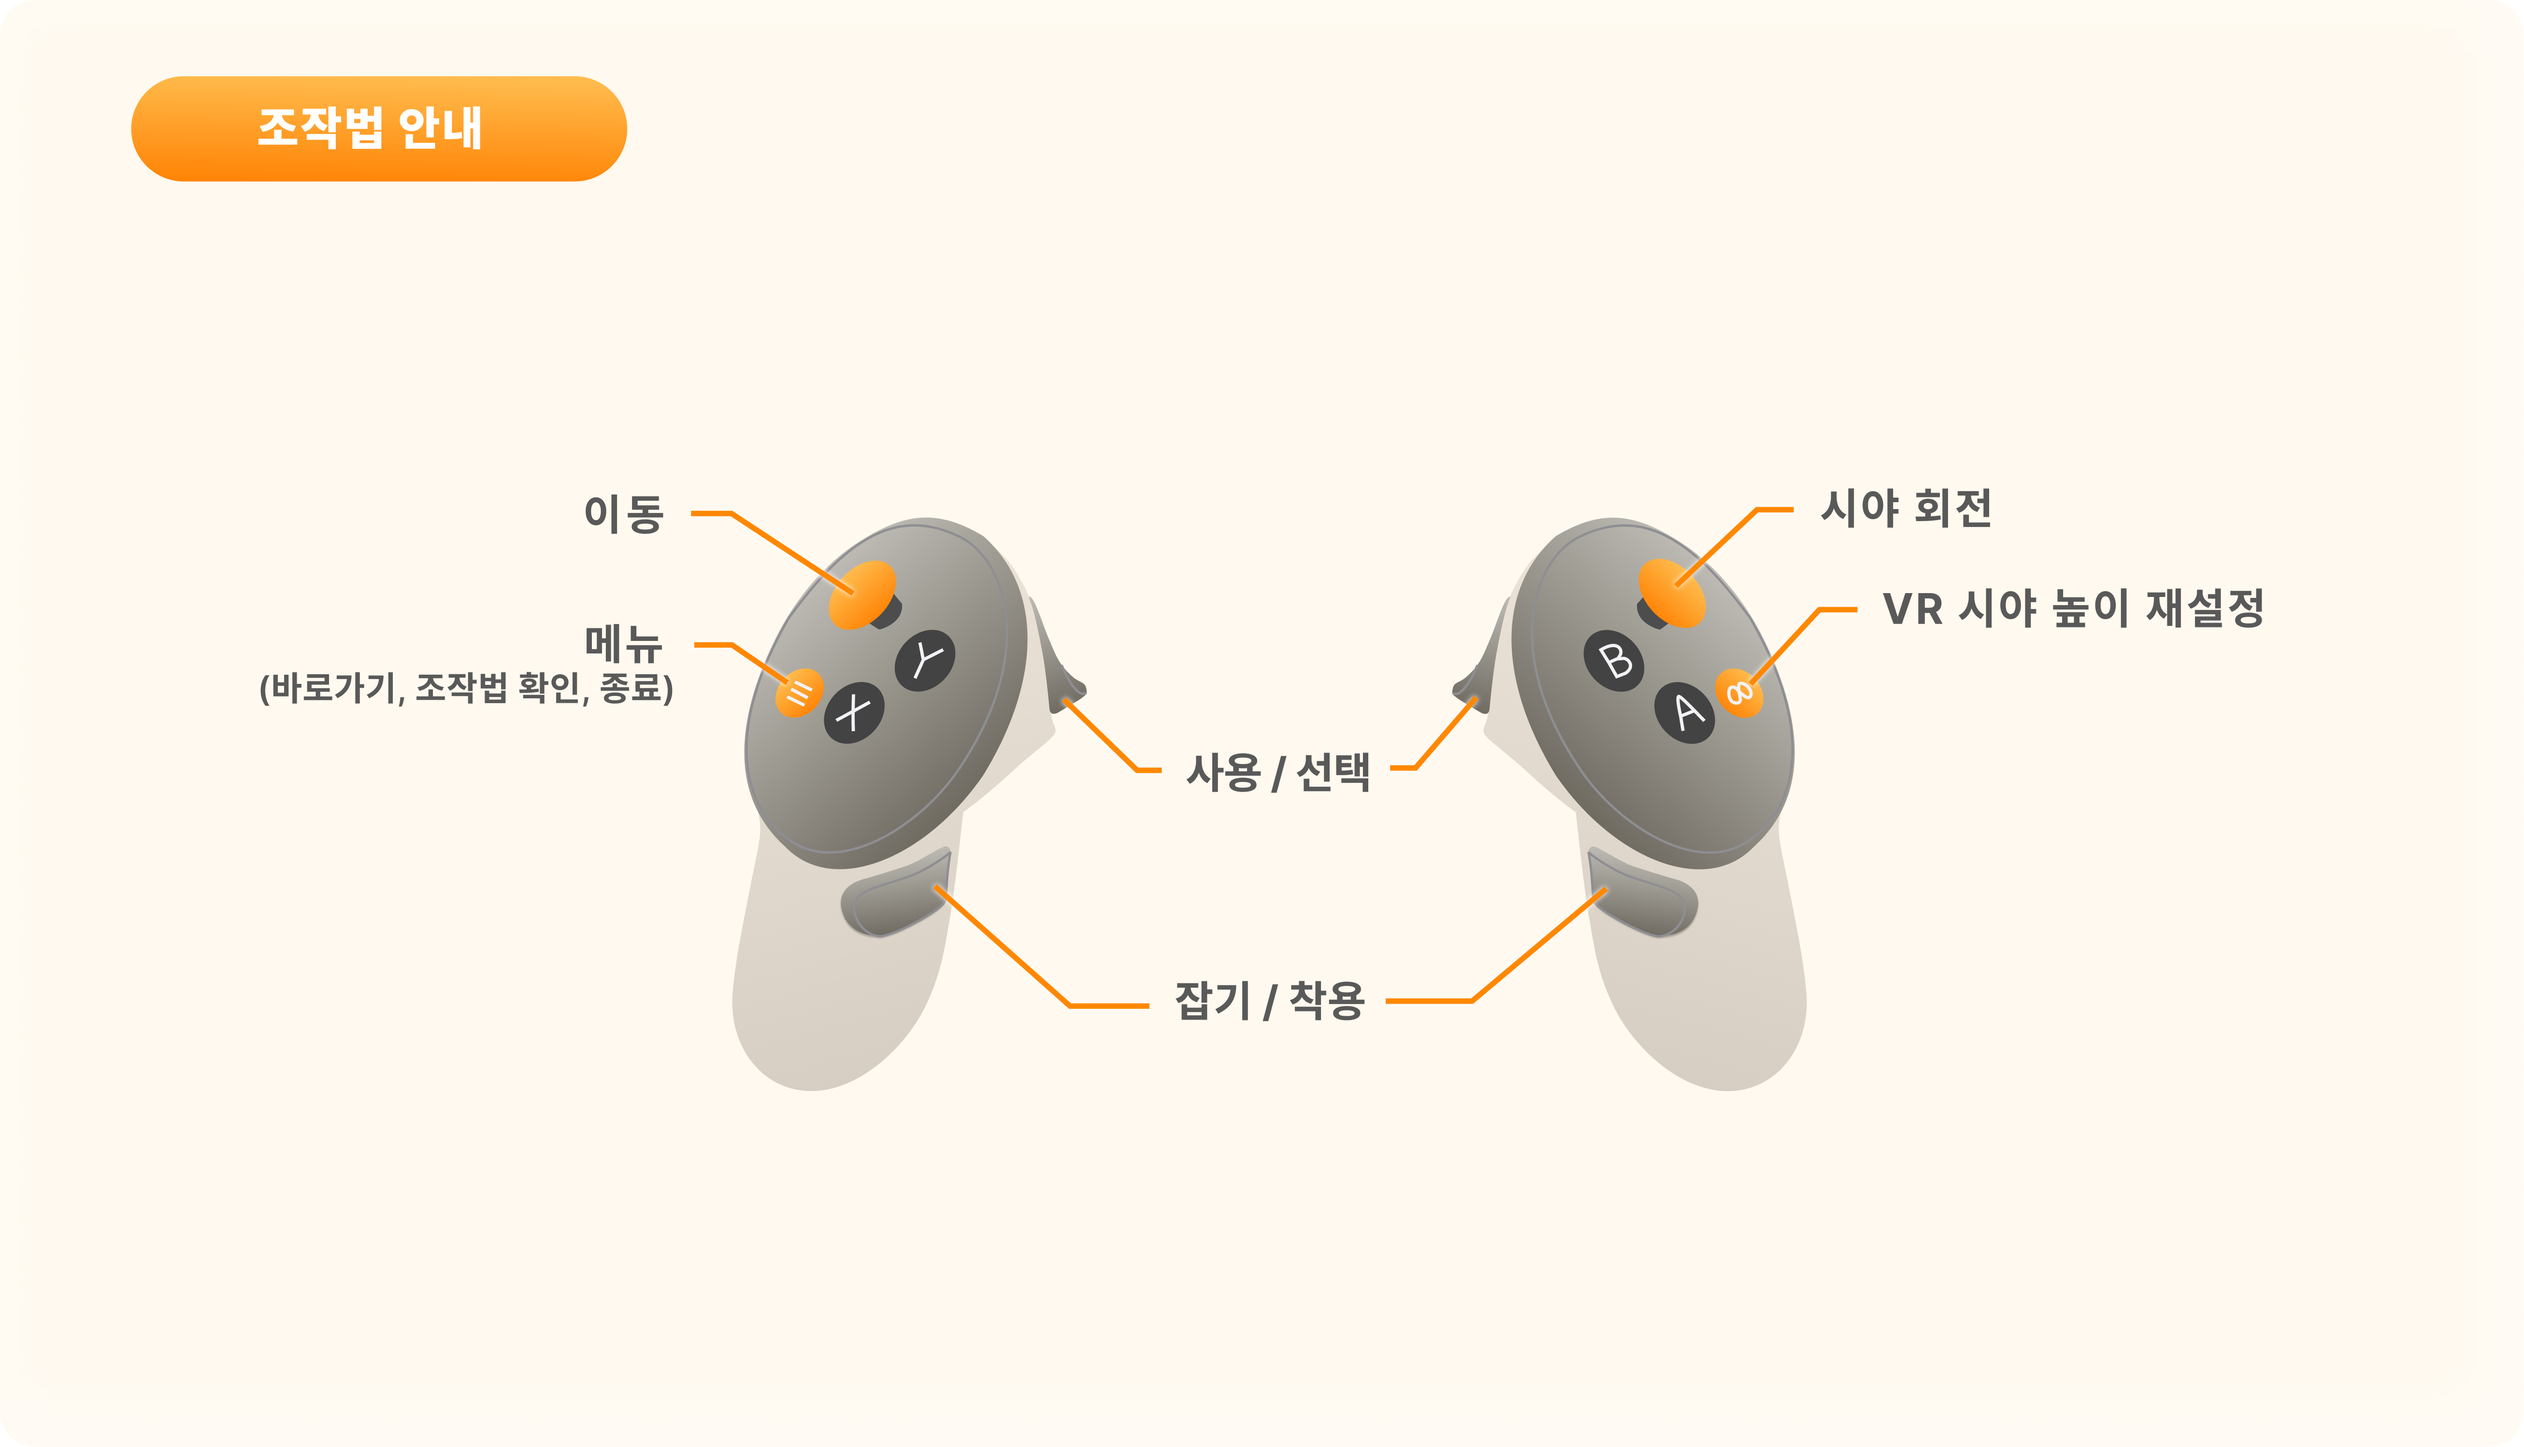
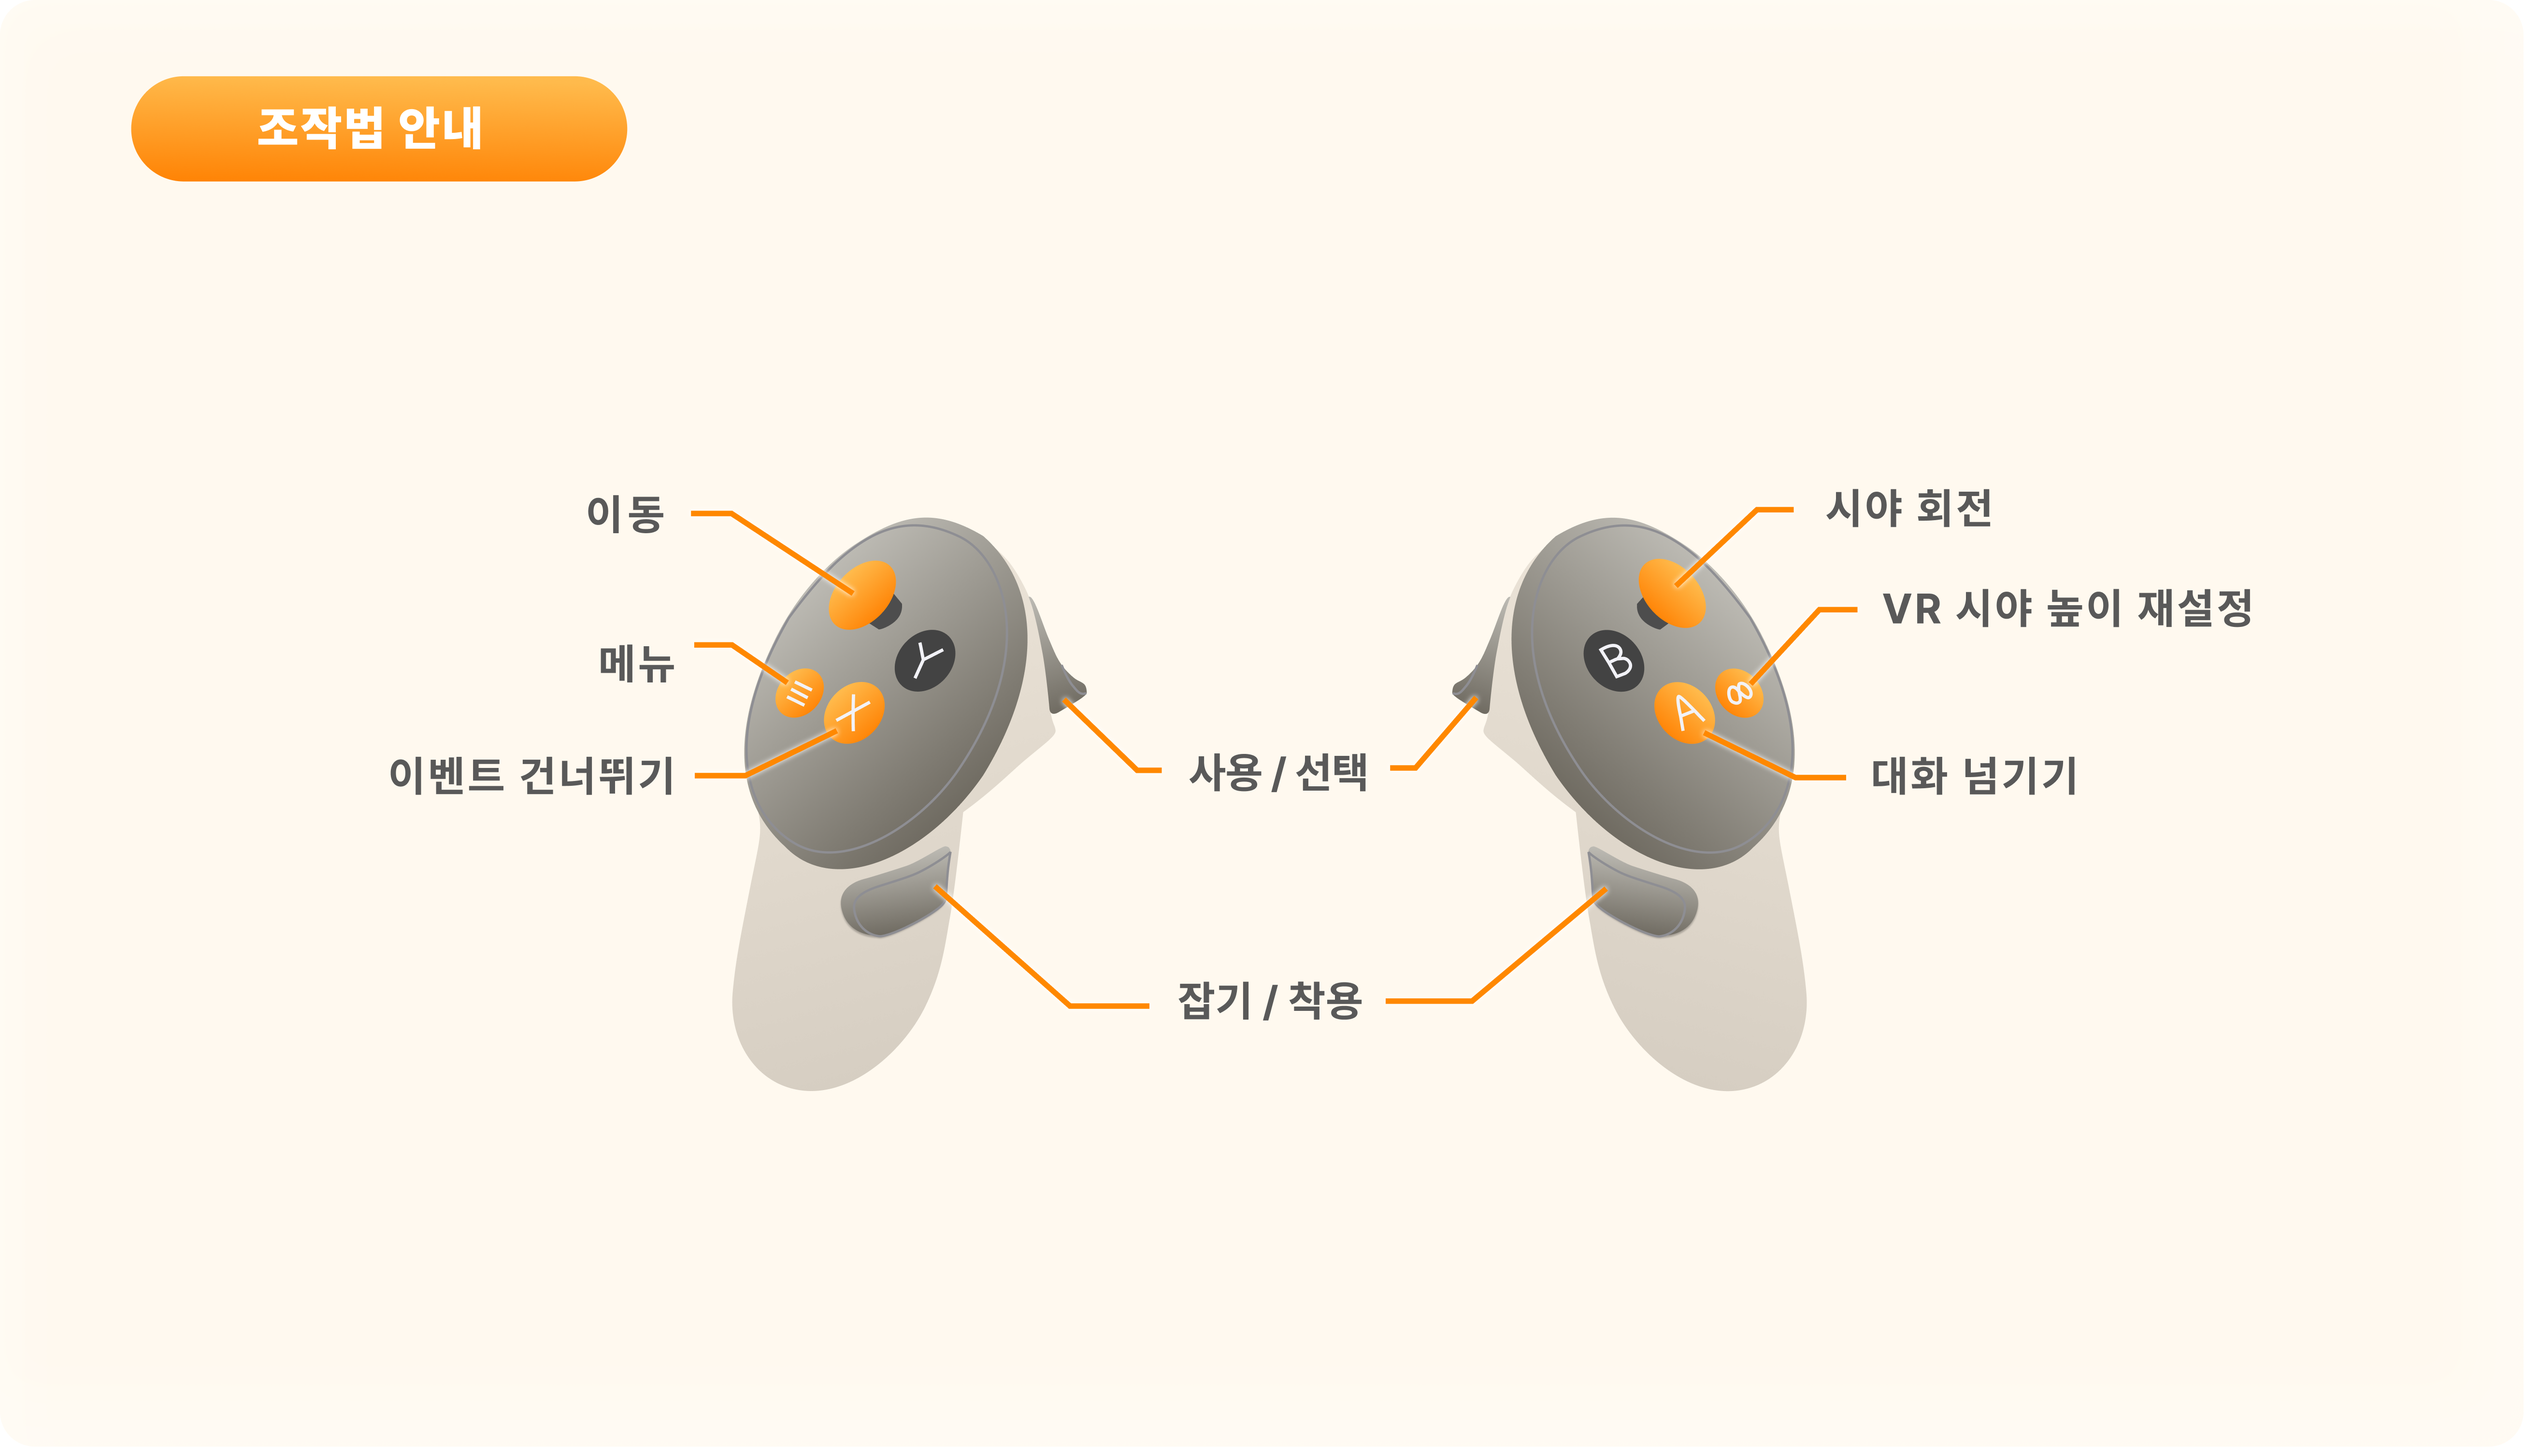
VR 스킵 버튼 추가 (왼쪽 X 버튼) 및 VR 컨트롤러 조작법 가이드 이미지 변경

diff --git a/Assets/02.Script_woo/Dialogue/DialogueController.cs b/Assets/02.Script_woo/Dialogue/DialogueController.cs
@@ -131,7 +131,7 @@ public sealed class DialogueController : MonoBehaviour
 
     void Update()
     {
-        if (_state == State.Idle) return;
+        // if (_state == State.Idle) return;
 
         if (Input != null)
         {
@@ -139,7 +139,7 @@ public sealed class DialogueController : MonoBehaviour
             if (Input.SkipPressed()) _requestSkip = true;
         }
 
-        if (Input.SkipPressed())
+        if (_requestSkip)
         {
             Finish();  // 코루틴까지 끊고 UI 닫음 (Finish보다 안전)
             if(environmentManager != null)
@@ -227,6 +227,15 @@ public sealed class DialogueController : MonoBehaviour
 
         for (int i = 0; i < fullText.Length; i++)
         {
+            if (_requestSkip)
+            {
+                View.SetBodyText(fullText);
+                voiceSource.Stop();
+                _requestSkip = false;
+                _requestNext = false;
+                break;
+            }
+
             //  타이핑 중에는 Next를 무시한다 (스킵 금지)
             // Skip만 허용하고 싶으면 아래 한 줄만 남기면 됨:
             if (_requestNext)
